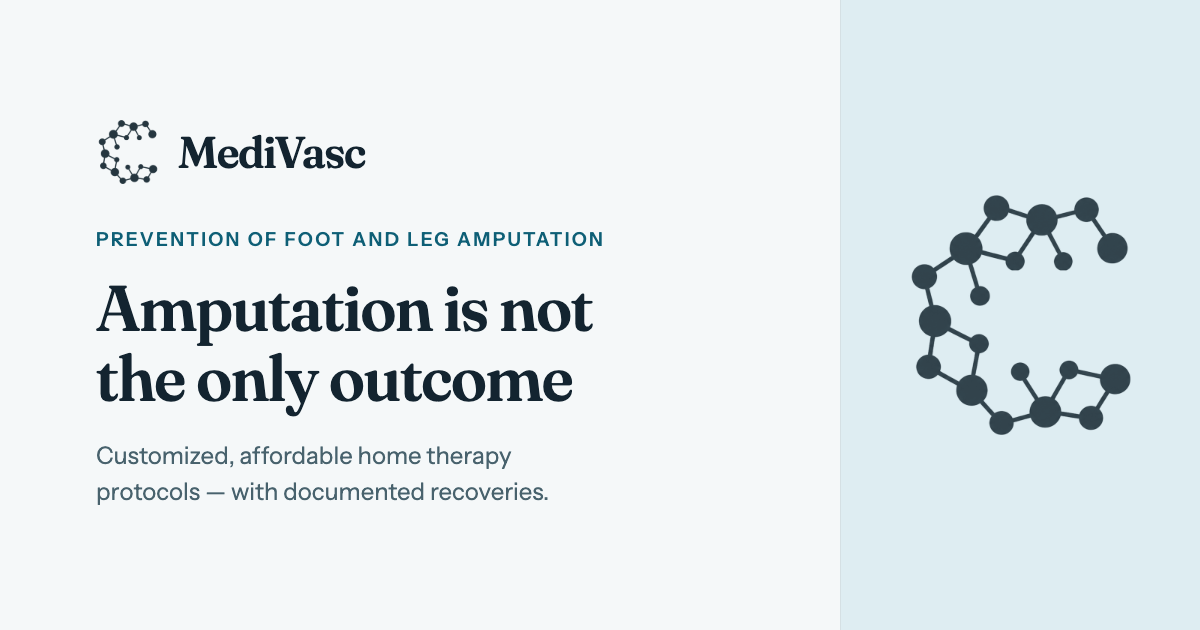
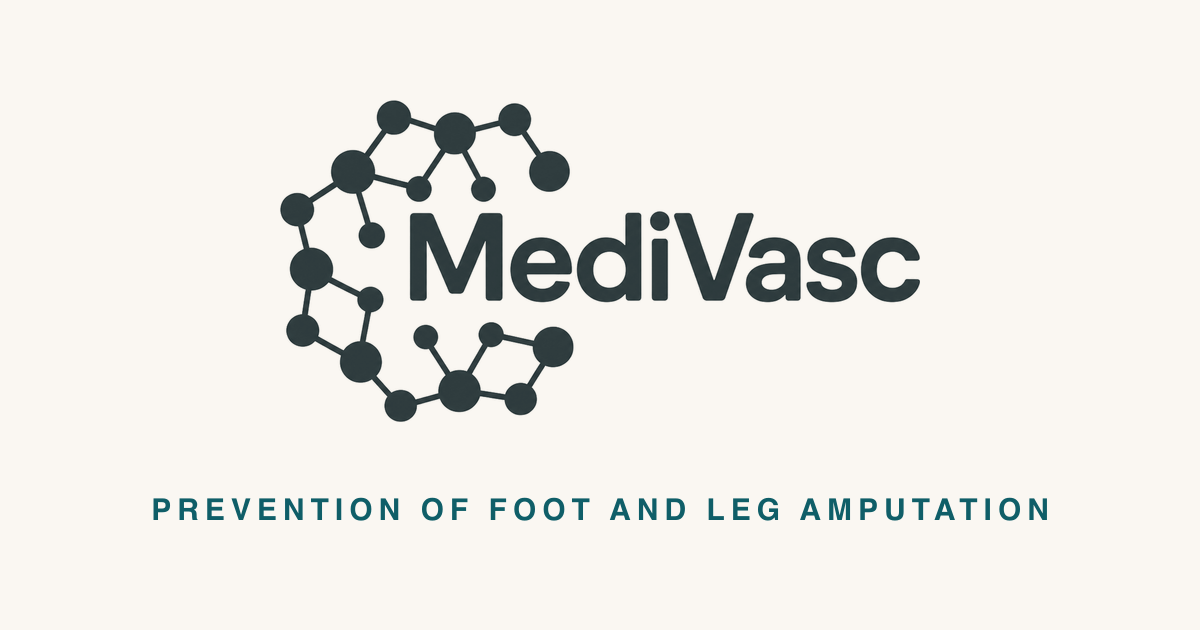
Brand: header/footer use the owner's real MediVasc lockup; motto unquoted
- assets/brand/logo-{ink,paper}.png tinted from logo-full.png via tools/gen-brand.js
- OG card regenerated from the lockup (supersedes prepare-og.js)
- motto line no longer wrapped in quotation marks

diff --git a/tools/gen-brand.js b/tools/gen-brand.js
@@ -1,0 +1,58 @@
+// Regenerates brand assets derived from the owner's logo lockup.
+// Chain: tools/prepare-brand.js (owner PNG -> logo-full.png + marks/favicons)
+//        -> this script (logo-full.png -> tinted header lockups + OG image).
+// Supersedes tools/prepare-og.js (the OG card is now the lockup itself, so the
+// header and social card can never drift apart). Run: node tools/gen-brand.js
+const path = require('node:path');
+const sharp = require('sharp');
+
+const ROOT = path.resolve(__dirname, '..');
+const BRAND = path.join(ROOT, 'assets', 'brand');
+
+const INK = '#1C2B2E';
+const PAPER = '#EAF2F0';
+const OG_BG = '#FAF7F2';
+
+const tintedLockup = async (color, width) => {
+  const trimmed = await sharp(path.join(BRAND, 'logo-full.png')).trim().png().toBuffer();
+  const resized = await sharp(trimmed).resize({ width }).png().toBuffer();
+  const meta = await sharp(resized).metadata();
+  const alpha = await sharp(resized).extractChannel(3).toBuffer();
+  return {
+    meta,
+    buffer: await sharp({
+      create: { width: meta.width, height: meta.height, channels: 3, background: color },
+    })
+      .joinChannel(alpha)
+      .png({ compressionLevel: 9 })
+      .toBuffer(),
+  };
+};
+
+const run = async () => {
+  const ink = await tintedLockup(INK, 720);
+  const paper = await tintedLockup(PAPER, 720);
+  await sharp(ink.buffer).toFile(path.join(BRAND, 'logo-ink.png'));
+  await sharp(paper.buffer).toFile(path.join(BRAND, 'logo-paper.png'));
+
+  const ogLockup = await tintedLockup(INK, 640);
+  const kicker = Buffer.from(
+    `<svg width="1200" height="630">
+      <text x="600" y="520" text-anchor="middle" font-family="Helvetica, Arial, sans-serif"
+        font-size="30" font-weight="600" letter-spacing="6" fill="#0F5E68">PREVENTION OF FOOT AND LEG AMPUTATION</text>
+    </svg>`,
+  );
+  await sharp({ create: { width: 1200, height: 630, channels: 3, background: OG_BG } })
+    .composite([
+      { input: ogLockup.buffer, left: Math.round((1200 - ogLockup.meta.width) / 2), top: 100 },
+      { input: kicker, left: 0, top: 0 },
+    ])
+    .png({ compressionLevel: 9 })
+    .toFile(path.join(BRAND, 'og-image.png'));
+  console.log('Brand assets regenerated: logo-ink, logo-paper, og-image.');
+};
+
+run().catch((error) => {
+  console.error(error);
+  process.exitCode = 1;
+});

diff --git a/src/styles.css b/src/styles.css
@@ -40,13 +40,12 @@ section[id]{scroll-margin-top:92px}
 
 .site-header{position:sticky;z-index:50;top:0;border-bottom:1px solid color-mix(in srgb,var(--line) 82%,transparent);background:color-mix(in srgb,var(--bg) 94%,transparent);backdrop-filter:blur(12px)}
 .header-inner{display:grid;grid-template-columns:auto 1fr auto;min-height:84px;align-items:center;gap:32px}
-.wordmark{display:inline-flex;min-height:44px;align-items:center;gap:12px;text-decoration:none}
-.mark{display:inline-grid;width:44px;height:44px;place-items:center}
-.mark img{width:100%;height:100%;object-fit:contain}
-.mark--paper{display:none}
-[data-theme="dark"] .mark--ink{display:none}
-[data-theme="dark"] .mark--paper{display:block}
-.wordmark__text,.footer-wordmark{color:var(--ink);font-family:"Fraunces",Georgia,serif;font-size:1.8rem;font-weight:600;letter-spacing:-.035em;line-height:1;white-space:nowrap}
+.wordmark{display:inline-flex;min-height:44px;align-items:center;text-decoration:none}
+.lockup{display:inline-flex;align-items:center}
+.lockup img{width:auto;height:48px}
+.lockup--paper{display:none}
+[data-theme="dark"] .lockup--ink{display:none}
+[data-theme="dark"] .lockup--paper{display:block}
 .site-nav{display:flex;align-items:center;justify-content:center;gap:26px}
 .site-nav a,.site-footer nav a{display:inline-flex;min-height:44px;align-items:center;color:var(--ink-muted);font-size:1rem;font-weight:500;text-decoration:none}
 .site-nav a:hover,.site-footer nav a:hover{color:var(--primary)}
@@ -162,8 +161,8 @@ section[id]{scroll-margin-top:92px}
 
 .site-footer{padding:56px 0 30px;border-top:1px solid var(--line);background:var(--bg)}
 .footer__top{display:grid;grid-template-columns:auto 1fr auto;gap:48px;align-items:center;padding-bottom:40px}
-.footer-brand{display:inline-flex;align-items:center;gap:12px}
-.footer-brand .mark{width:38px;height:38px}
+.footer-brand{display:inline-flex;align-items:center}
+.footer-brand .lockup img{height:40px}
 .footer__top>p{margin:0;color:var(--ink-muted);font-size:1rem}
 .site-footer nav{display:flex;gap:24px}
 .footer__bottom{display:flex;justify-content:space-between;gap:32px;padding-top:24px;border-top:1px solid var(--line);color:var(--ink-muted);font-size:.875rem}
@@ -204,8 +203,7 @@ section[id]{scroll-margin-top:92px}
   html{scroll-padding-top:80px}
   .container{width:min(100% - 32px,1240px)}
   .header-inner{min-height:72px}
-  .wordmark__text{font-size:1.5rem}
-  .mark{width:38px;height:38px}
+  .lockup img{height:40px}
   .header-cta{display:none}
   .hero{padding-top:44px}
   .hero__actions .button{flex:1 1 auto}
@@ -233,7 +231,7 @@ section[id]{scroll-margin-top:92px}
 @media (max-width:400px){
   .container{width:min(100% - 24px,1240px)}
   .header-inner{gap:8px}
-  .wordmark__text{font-size:1.35rem}
+  .lockup img{height:34px}
   .hero__actions{flex-direction:column;align-items:stretch}
   .hero__evidence-strip{gap:6px}
   .pair-story__pair{grid-template-columns:1fr}

diff --git a/src/build.js b/src/build.js
@@ -68,9 +68,9 @@ const buildImageMap = async (testimonials) => {
   return Object.fromEntries(entries);
 };
 
-const prepareMark = async (name) => {
+const prepareMark = async (name, width = 128) => {
   const buffer = await sharp(path.join(ROOT, 'assets', 'brand', `${name}.png`))
-    .resize({ width: 128, withoutEnlargement: true })
+    .resize({ width, withoutEnlargement: true })
     .png({ compressionLevel: 9 })
     .toBuffer();
   return writeHashed('assets/brand', name, 'png', buffer);
@@ -95,8 +95,8 @@ const copyBrandAssets = async () => {
   );
   const [ogImage, ink, paper] = await Promise.all([
     processImage('assets/brand/og-image.png'),
-    prepareMark('mark-ink'),
-    prepareMark('mark-paper'),
+    prepareMark('logo-ink', 384),
+    prepareMark('logo-paper', 384),
   ]);
   return { ogImage: ogImage.original, markPaths: { ink, paper } };
 };
@@ -128,10 +128,9 @@ h1{max-width:14ch;margin-bottom:28px;font-size:clamp(2.75rem,6.5vw,4.25rem)}
 .container{width:min(100% - 40px,1240px);margin-inline:auto}
 .site-header{position:sticky;z-index:50;top:0;border-bottom:1px solid var(--line);background:var(--bg)}
 .header-inner{display:grid;grid-template-columns:auto 1fr auto;min-height:84px;align-items:center;gap:32px}
-.wordmark{display:inline-flex;min-height:44px;align-items:center;gap:12px;text-decoration:none}
-.mark{display:inline-grid;width:44px;height:44px;place-items:center}.mark img{width:100%;height:100%;object-fit:contain}.mark--paper{display:none}
-[data-theme="dark"] .mark--ink{display:none}[data-theme="dark"] .mark--paper{display:block}
-.wordmark__text{font-family:"Fraunces",Georgia,serif;font-size:1.8rem;font-weight:600;letter-spacing:-.035em}
+.wordmark{display:inline-flex;min-height:44px;align-items:center;text-decoration:none}
+.lockup{display:inline-flex;align-items:center}.lockup img{width:auto;height:48px}.lockup--paper{display:none}
+[data-theme="dark"] .lockup--ink{display:none}[data-theme="dark"] .lockup--paper{display:block}
 .site-nav{display:flex;align-items:center;justify-content:center;gap:26px}.header-actions{display:flex;align-items:center;gap:12px}.menu-toggle{display:none}
 .kicker{margin-bottom:14px;color:var(--accent);font-size:.875rem;font-weight:600;letter-spacing:.1em;text-transform:uppercase}
 .hero{padding-block:clamp(3rem,6vw,5.5rem) clamp(3.5rem,7vw,6rem)}

diff --git a/src/template.js b/src/template.js
@@ -163,9 +163,9 @@ const renderPage = ({
     .split(/\n\n+/)
     .map((paragraph) => `<p>${escapeHtml(paragraph)}</p>`)
     .join('');
-  const mark = (context) => `<span class="mark" aria-hidden="true">
-    <img class="mark--ink" src="${markPaths.ink}" alt="" width="44" height="44" loading="${context === 'header' ? 'eager' : 'lazy'}" decoding="async">
-    <img class="mark--paper" src="${markPaths.paper}" alt="" width="44" height="44" loading="${context === 'header' ? 'eager' : 'lazy'}" decoding="async">
+  const lockup = (context) => `<span class="lockup" aria-hidden="true">
+    <img class="lockup--ink" src="${markPaths.ink}" alt="" width="384" height="193" loading="${context === 'header' ? 'eager' : 'lazy'}" decoding="async">
+    <img class="lockup--paper" src="${markPaths.paper}" alt="" width="384" height="193" loading="${context === 'header' ? 'eager' : 'lazy'}" decoding="async">
   </span>`;
 
   return `<!doctype html>
@@ -206,7 +206,7 @@ const renderPage = ({
   <a class="skip-link" href="#main">Skip to content</a>
   <header class="site-header" data-header>
     <div class="container header-inner">
-      <a class="wordmark" href="#top" aria-label="MediVasc home">${mark('header')}<span class="wordmark__text" aria-hidden="true">MediVasc</span></a>
+      <a class="wordmark" href="#top" aria-label="MediVasc home">${lockup('header')}</a>
       <button class="icon-button menu-toggle" type="button" aria-expanded="false" aria-controls="site-nav" data-menu-toggle><span class="sr-only">Open navigation</span>${icon('menu')}</button>
       <nav class="site-nav" id="site-nav" aria-label="Main navigation" data-nav>
         <a href="#recoveries">Recoveries</a>
@@ -283,7 +283,7 @@ const renderPage = ({
           <li data-reveal style="--reveal-order:3"><span>04</span><div><h3>Follow-ups until the result</h3><p>We stay in touch at predefined regular intervals, monitor progress, take your feedback, and change the modalities if required — until the desired result is achieved.</p></div></li>
         </ol>
         <aside class="motto" data-reveal>
-          <p class="motto__line">“A solution is not a solution unless it is affordable”</p>
+          <p class="motto__line">A solution is not a solution unless it is affordable</p>
           <p>That is our motto, and we mean it literally. The solutions are designed not to pinch the pockets of patients and families already struggling with rising medical expenses.</p>
         </aside>
       </div>
@@ -365,7 +365,7 @@ const renderPage = ({
 
   <footer class="site-footer">
     <div class="container footer__top">
-      <span class="footer-brand">${mark('footer')}<span class="footer-wordmark" aria-label="MediVasc">MediVasc</span></span>
+      <span class="footer-brand">${lockup('footer')}<span class="sr-only">MediVasc</span></span>
       <p>${escapeHtml(company.tagline)}</p>
       <nav aria-label="Footer navigation"><a href="#recoveries">Recoveries</a><a href="#approach">Approach</a><a href="#conditions">Conditions</a><a href="#about">About</a><a href="#contact">Contact</a></nav>
     </div>

diff --git a/PROGRESS.md b/PROGRESS.md
@@ -9,7 +9,7 @@
 
 | Date | Phase | Checkpoint | Evidence / notes |
 |---|---|---|---|
-| 2026-07-12 | 1 | Brand + evidence assets | `tools/prepare-brand.js` (mask-derived marks/favicons from the owner logo, no redraw) and `tools/prepare-evidence.js` (documented crops, EXIF strip, 4:5) committed with outputs; OG image rendered with real fonts via `tools/prepare-og.js`. |
+| 2026-07-12 | 1 | Brand + evidence assets | `tools/prepare-brand.js` (mask-derived marks/favicons from the owner logo, no redraw) and `tools/prepare-evidence.js` (documented crops, EXIF strip, 4:5) committed with outputs; OG image now rendered from the lockup by `tools/gen-brand.js` (run 3). |
 | 2026-07-12 | 2 | Data layer | company/site-config/testimonials/protocols/themes rewritten for MediVasc; 4 real recovery stories (story-001 featured, leg-color lightening noted per owner); 16 protocols across disease/elderly; run-1 placeholder quotes deleted; run-1 protocols+testimonials archived in `data/archive/`. All JSON parses. |
 | 2026-07-12 | 3 | Public site v2 | Trust-first narrative per Addendum A (hero → recoveries → approach with verbatim motto → conditions list → act-today band → fraternity → about → contact). `npm run build` exit 0; body 18px computed at 4 viewport/mode combos; zero console errors; zero "sequential", "Naviga Life", product, catalogue, or sports strings in dist; rendered screenshots reviewed desktop+mobile, light+dark. |
 | 2026-07-12 | 4 | Admin v2 | Passcode vault (PBKDF2-SHA-256 600k → AES-GCM; plain PAT never persisted; passcode-only unlock after reload; forget-device wipe), login theme toggle fixed (site tokens scoped to app view), Recoveries creation flow with Before/During/After 4:5 slots + featured uniqueness, protocols limited to two tracks, products preserved with archive notice, appearance rebuilt. 22/22 browser flow checks passed against a mocked GitHub API; no console errors. |

diff --git a/README.md b/README.md
@@ -22,7 +22,7 @@ management are preserved for a possible return).
    commit, updating the branch ref only after every blob and tree is ready.
 6. `tools/prepare-evidence.js` and `tools/prepare-brand.js` are the one-off,
    documented pipelines that produced the patient-evidence WebPs and the brand
-   set from owner-supplied originals. `tools/prepare-og.js` renders the OG
+   set from owner-supplied originals. `tools/gen-brand.js` renders header lockups and the OG
    image with the real fonts.
 7. `tools/gen-pdfs.js` exits successfully without output while
    `productsEnabled` is false.